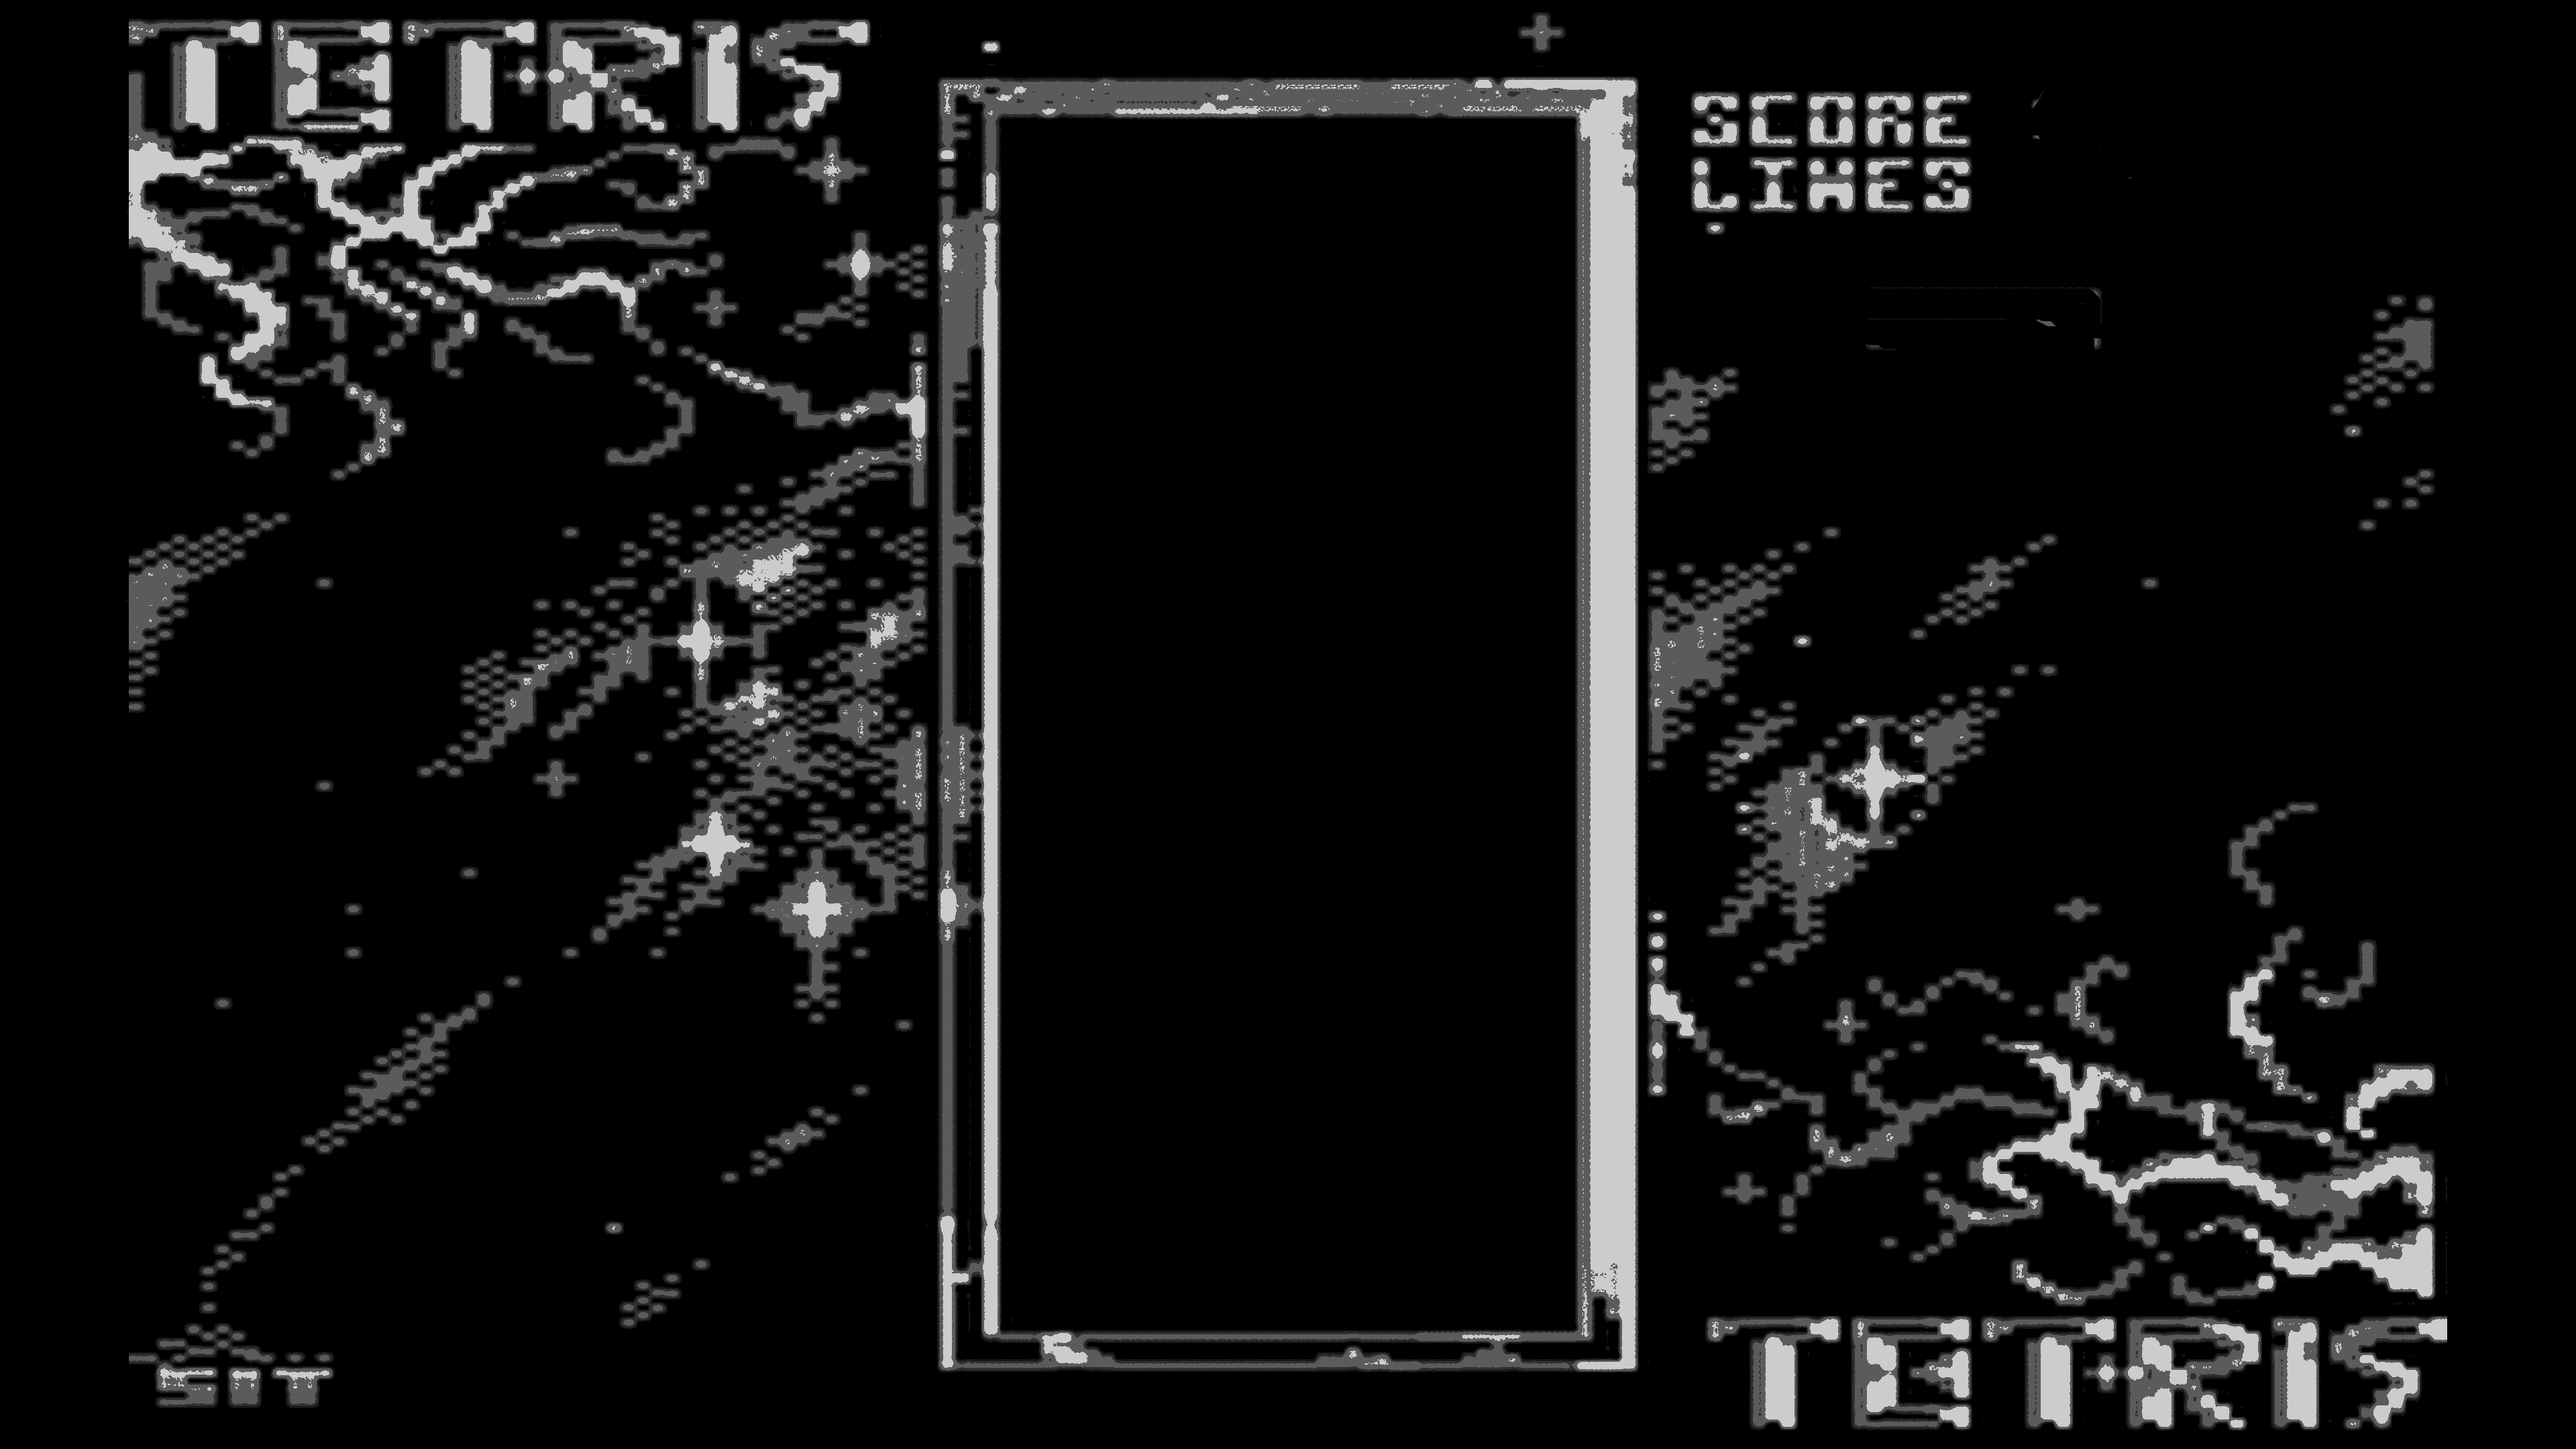
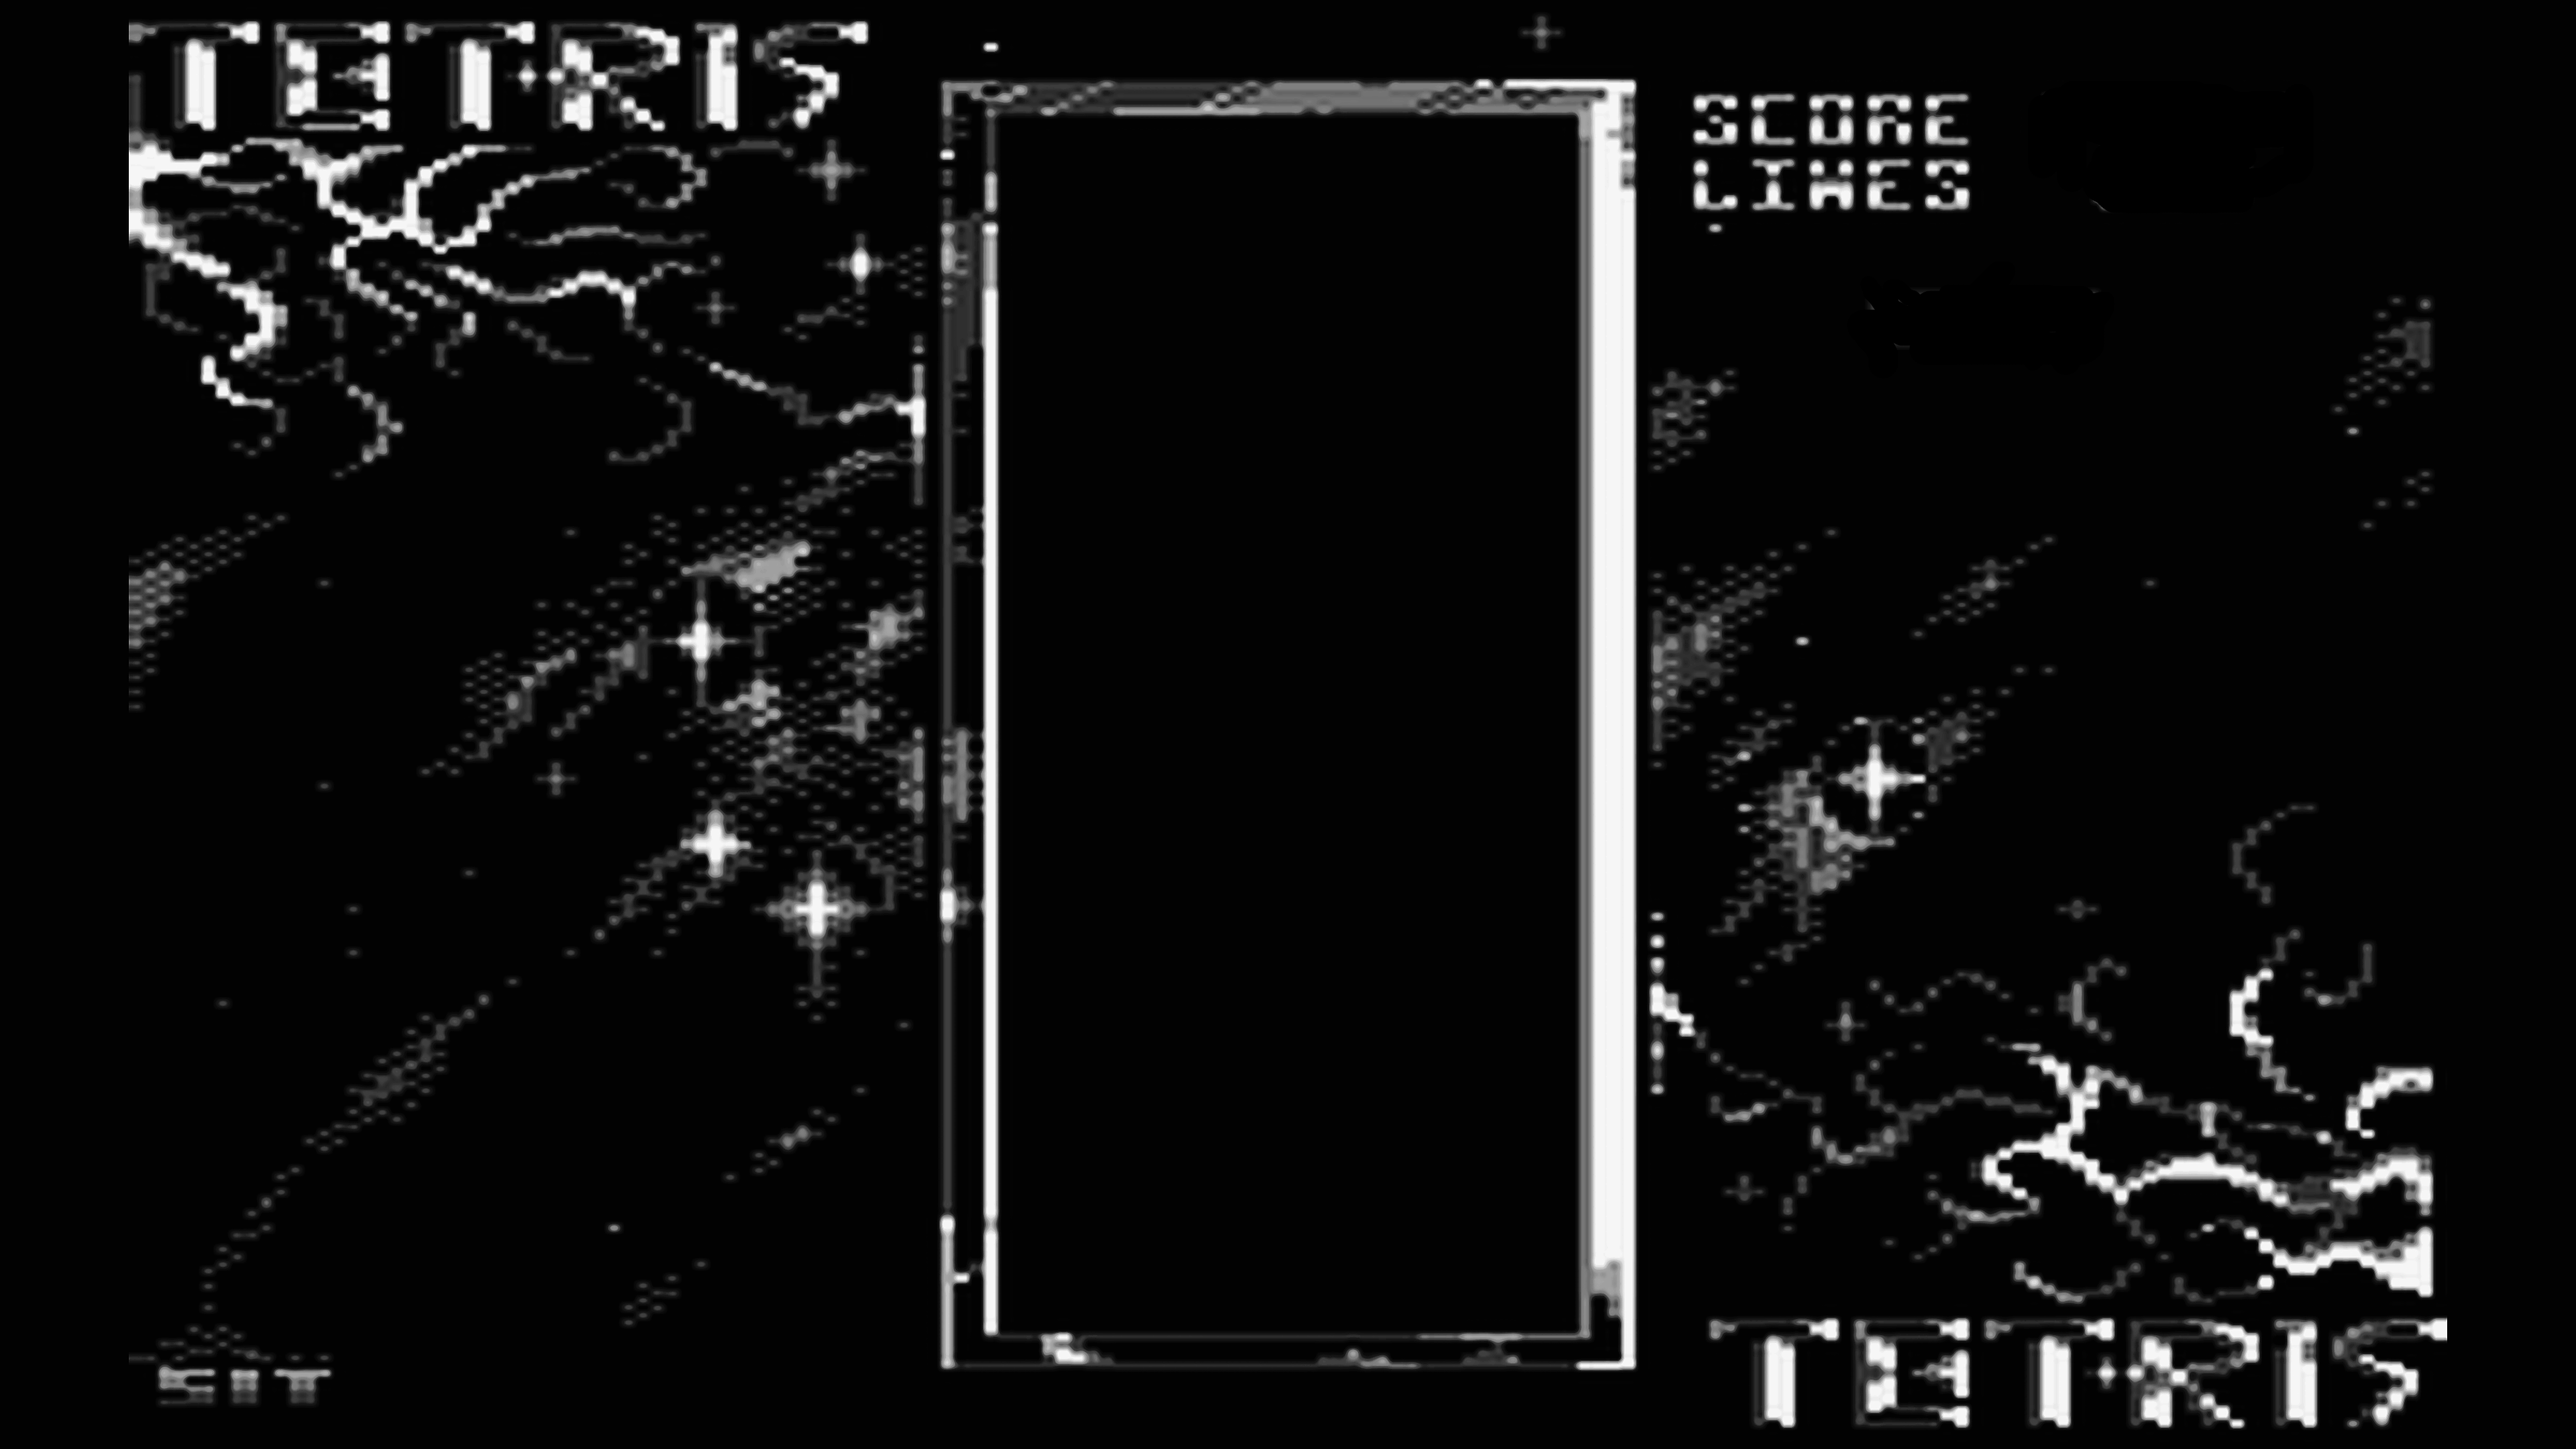
1

diff --git a/demo/tetris64/main.go b/demo/tetris64/main.go
@@ -27,11 +27,14 @@ import (
 	"github.com/X11Libre/go-x11proto/tk/xpm"
 )
 
-//go:embed assets/color/320/frame.png
-var frame320PNG []byte
+// Embedded fallback (used when the on-disk asset for the active theme/resolution
+// is missing): the FHD colour frame/loader, the smallest theme we ship.
+//
+//go:embed assets/color/FHD/frame.png
+var frameFallbackPNG []byte
 
-//go:embed assets/color/320/loader.png
-var loader320PNG []byte
+//go:embed assets/color/FHD/loader.png
+var loaderFallbackPNG []byte
 
 //go:embed assets/music/tetris.sid
 var sidData []byte
@@ -58,7 +61,6 @@ type resOpt struct {
 }
 
 var resolutions = []resOpt{
-	{320, 200, 1, "320"},
 	{1920, 1080, 6, "FHD"},
 	{2560, 1440, 8, "WQHD"},
 	{3840, 2160, 12, "UHD4K"},
@@ -78,7 +80,6 @@ type resLayout struct {
 // Score/lines/next positions measured from the original FHD screenshots
 // (assets/screenshots) and expressed per resolution (≈ C64-space coord * scale).
 var layouts = []resLayout{
-	{cell: 8, bx: 120, by: 16, nx: 233, ny: 29, scoreX: 266, scoreY: 13, linesX: 272, linesY: 22, numRight: 310, adv: 8, gameOverX: 120, gameOverY: 88},
 	{cell: 42, bx: 755, by: 99, nx: 1398, ny: 174, scoreX: 1475, scoreY: 70, linesX: 1545, linesY: 119, numRight: 1739, adv: 48, gameOverX: 720, gameOverY: 475},
 	{cell: 55, bx: 1010, by: 143, nx: 1864, ny: 232, scoreX: 2023, scoreY: 94, linesX: 2080, linesY: 159, numRight: 2375, adv: 64, gameOverX: 960, gameOverY: 633},
 	{cell: 83, bx: 1513, by: 212, nx: 2796, ny: 348, scoreX: 3034, scoreY: 141, linesX: 3125, linesY: 238, numRight: 3562, adv: 96, gameOverX: 1440, gameOverY: 950},
@@ -96,6 +97,7 @@ type TetrisWin struct {
 	gcBlack  base.GC
 	gcColors map[uint8]base.GC
 	gcGhost  map[uint8]base.GC
+	gcShade  map[uint8]base.GC
 
 	bg       base.PIXMAP
 	loaderBg base.PIXMAP
@@ -159,7 +161,7 @@ func loadFrame(resName string) []byte {
 			return d
 		}
 	}
-	return frame320PNG
+	return frameFallbackPNG
 }
 
 func loadLoader(resName string) []byte {
@@ -168,7 +170,7 @@ func loadLoader(resName string) []byte {
 			return d
 		}
 	}
-	return loader320PNG
+	return loaderFallbackPNG
 }
 
 func decodeImage(data []byte) (*xpm.Image, error) {
@@ -337,6 +339,52 @@ func dimColor(rgba uint32) uint32 {
 	return (r << 16) | (g << 8) | b
 }
 
+// shadeColor darkens a colour to ~13/16 for the scanline rows that give the
+// stones the soft, slightly-striped look of the original CRT screenshots.
+func shadeColor(rgba uint32) uint32 {
+	r := ((rgba >> 16) & 0xFF) * 13 / 16
+	g := ((rgba >> 8) & 0xFF) * 13 / 16
+	b := (rgba & 0xFF) * 13 / 16
+	return (r << 16) | (g << 8) | b
+}
+
+func (w *TetrisWin) shadeGC(color uint8) base.GC {
+	if w.gcShade == nil {
+		w.gcShade = make(map[uint8]base.GC)
+	}
+	if g, ok := w.gcShade[color]; ok {
+		return g
+	}
+	rgba := game.PieceColors[game.PieceType(color)]
+	g, _ := rpc.CreateGC1(w.conn, base.CARD32(shadeColor(rgba)), 0x000000, 0)
+	w.gcShade[color] = g
+	return g
+}
+
+// scanlineRects returns the darker horizontal stripes (every other ~t rows)
+// for a set of cell rectangles, producing a subtle scanline texture.
+func (w *TetrisWin) scanlineRects(rects []base.Rectangle) []base.Rectangle {
+	t := w.scale / 4
+	if t < 1 {
+		t = 1
+	}
+	cell := w.layout.cell
+	var out []base.Rectangle
+	for _, r := range rects {
+		for yy := t; yy < cell; yy += 2 * t {
+			h := t
+			if yy+h > cell {
+				h = cell - yy
+			}
+			out = append(out, base.Rectangle{
+				X: r.X, Y: r.Y + base.INT16(yy),
+				Width: r.Width, Height: base.CARD16(h),
+			})
+		}
+	}
+	return out
+}
+
 func (w *TetrisWin) gcCol(color uint8) (full, ghost base.GC) {
 	if w.gcColors == nil {
 		w.gcColors = make(map[uint8]base.GC)
@@ -452,6 +500,7 @@ func (w *TetrisWin) drawGame() {
 	for c, rects := range byColor {
 		full, _ := w.gcCol(c)
 		w.fillRects(w.boardWin, full, rects)
+		w.fillRects(w.boardWin, w.shadeGC(c), w.scanlineRects(rects))
 	}
 
 	// ghost piece (relative to boardWin)
@@ -511,6 +560,7 @@ func (w *TetrisWin) drawGame() {
 		}
 	}
 	w.fillRects(w.boardWin, full, rects)
+	w.fillRects(w.boardWin, w.shadeGC(uint8(p.Type)), w.scanlineRects(rects))
 
 	// next piece preview (relative to bgWin)
 	next := game.NewPiece(gs.Next)
@@ -534,6 +584,7 @@ func (w *TetrisWin) drawGame() {
 		}
 	}
 	w.fillRects(w.bgWin, full, rectsN)
+	w.fillRects(w.bgWin, w.shadeGC(uint8(next.Type)), w.scanlineRects(rectsN))
 
 	bgDraw := tk_core.Drawable{Conn: w.tkConn, XID: w.bgWin}
 
@@ -603,7 +654,7 @@ func (w *TetrisWin) drawHelp() {
 	})
 
 	helpLines := []string{
-		"ARROWS/WASD  MOVE",
+		"ARROWS/HJKL  MOVE",
 		"DOWN / J     SOFT DROP",
 		"UP / K       ROTATE",
 		"ENTER        HARD DROP",

diff --git a/demo/tetris64/glyphs.go b/demo/tetris64/glyphs.go
@@ -47,7 +47,7 @@ func glyphTintColor() [3]byte {
 		return *cachedGlyphTint
 	}
 	t := [3]byte{0xBA, 0xBA, 0xBA}
-	const fhd = 1 // index of the FHD resolution / layout
+	const fhd = 0 // index of the FHD resolution / layout
 	if img, err := decodeImage(loadFrame(resolutions[fhd].name)); err == nil {
 		t = sampleGlyphTint(img, layouts[fhd], resolutions[fhd].scale)
 	}

diff --git a/demo/tetris64/TODO.md b/demo/tetris64/TODO.md
@@ -1,11 +1,11 @@
-[ ] FHD mono theme still looking blurred  --> try to generate again from screenshots
-[ ] UHD4K mono theme still looking blurred     -- likewise, please recheck
-[ ] WQHD mono theme still looking blurred      -- likewise, please recheck
-[ ] drop the old 320x200 theme - not needed anymore, use the next bigger one as fallback instead
+[x] FHD mono theme still looking blurred  --> regenerated mono frames as greyscale of the (sharp) colour frames; was posterized to ~3 grey levels, now full tonal range
+[x] UHD4K mono theme still looking blurred     -- same fix (regenerated from colour)
+[x] WQHD mono theme still looking blurred      -- same fix (regenerated from colour)   (note: mono *.xpm are now stale 3-level; game uses the PNGs)
+[x] drop the old 320x200 theme - not needed anymore, use the next bigger one as fallback instead   -- removed 320 from resolutions/layouts + deleted assets; FHD colour frame is now the embedded fallback
 [x] next stone preview is in the wrong place - not where it was in the original game   -- repositioned (nx/ny) from the original screenshots, per resolution
 [x] highscore and line counter aren't positioned correctly   -- measured per-frame score/lines positions; 5-digit score, 48px-style advance, clear-rects fixed (no more bleed/overlap). verified 320/FHD/WQHD
-[ ] stones should look a bit more smoothed (like on the original game screenshots)
+[x] stones should look a bit more smoothed (like on the original game screenshots)   -- subtle per-colour horizontal scanlines on board/current/next stones
 [x] score and line counter should be right aligned. move it a little bit more to the right   -- right-aligned to a per-res numRight edge, nudged right (tunable)
 [x] add a help page - both within loader as well as game - should pause the game - use a border like the game area's border   -- F1 toggles in loader+game, pauses (gravity halts), hides board so it's not occluded, well-style thick border, updated keys
-[ ] upload assets as server-side images and use those, if not already done yet
-[ ] add little readme with help
+[x] upload assets as server-side images and use those, if not already done yet   -- already done: frame/loader/glyphs uploaded as pixmaps (Image.Upload), reused via SetWindowBackgroundPixmap + CopyArea (no per-frame pixel uploads)
+[x] add little readme with help   -- demo/tetris64/README.md (run + controls + assets)

diff --git a/demo/tetris64/README.md b/demo/tetris64/README.md
@@ -1,0 +1,40 @@
+# C64 Tetris demo
+
+A recreation of the 1988 Mirrorsoft / Andromeda **Commodore 64 Tetris**,
+rendered directly over the X11 wire protocol using `go-x11proto` (no Xlib).
+
+## Run
+
+```sh
+go run ./demo/tetris64
+```
+
+Run it from the repository root so the on-disk assets under
+`demo/tetris64/assets/` are picked up. If they are not found, the program falls
+back to the embedded FHD colour frame.
+
+## Controls
+
+| Key            | Action                                   |
+| -------------- | ---------------------------------------- |
+| Arrows / `H` `L` | move left / right                      |
+| Down / `J`     | soft drop                                |
+| Up / `K`       | rotate                                   |
+| `Enter`        | hard drop (also restarts after game over)|
+| `Space`        | pause / resume                           |
+| `F1`           | help page (loader & game; pauses)        |
+| `C`            | toggle colour / mono theme               |
+| `G`            | toggle landing preview (ghost grid)      |
+| `F`            | toggle fullscreen                        |
+| `+` / `-`      | cycle resolution                         |
+| `Q`            | quit                                     |
+
+## Assets
+
+- Backgrounds live under `assets/<theme>/<res>/` (`frame.png`, `loader.png`),
+  for themes `color` and `mono` and resolutions `FHD`, `WQHD`, `UHD4K`.
+  They are uploaded once as server-side pixmaps.
+- Score/lines digits come from greyscale master glyphs in
+  `assets/glyph-masters/`, scaled per resolution and tinted to match the
+  background's score text.
+- Music: `assets/music/tetris.sid`, played via `sidplayfp` if it is installed.
